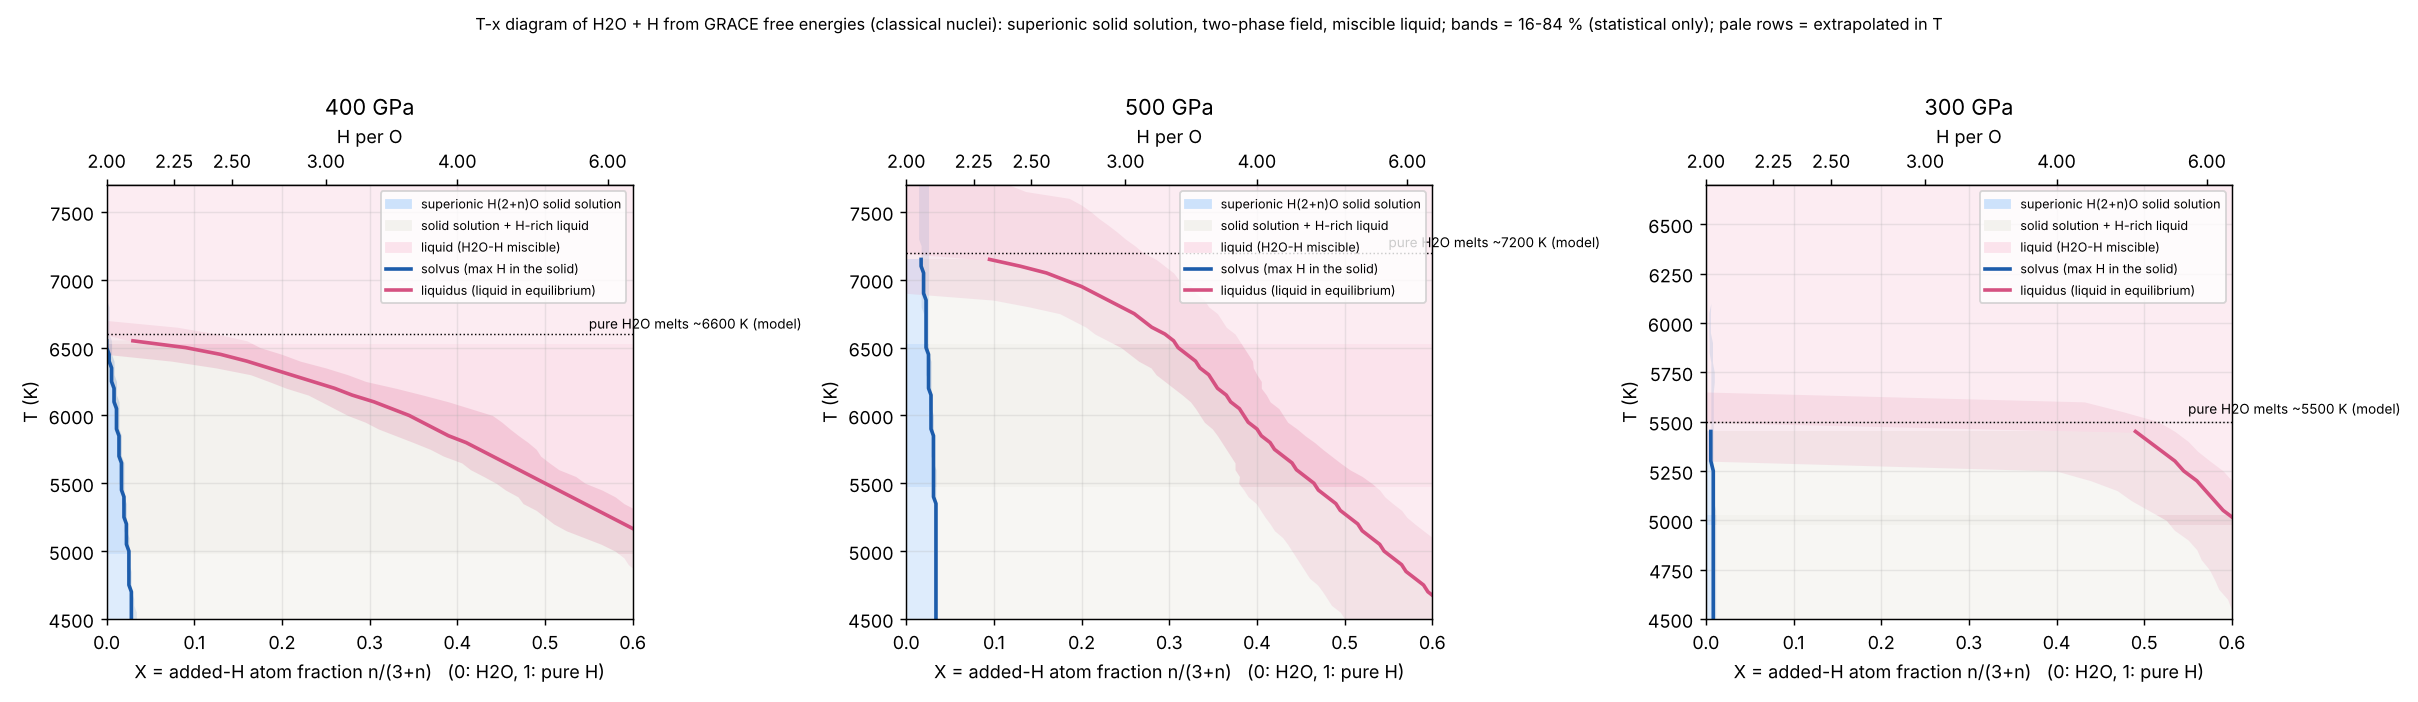
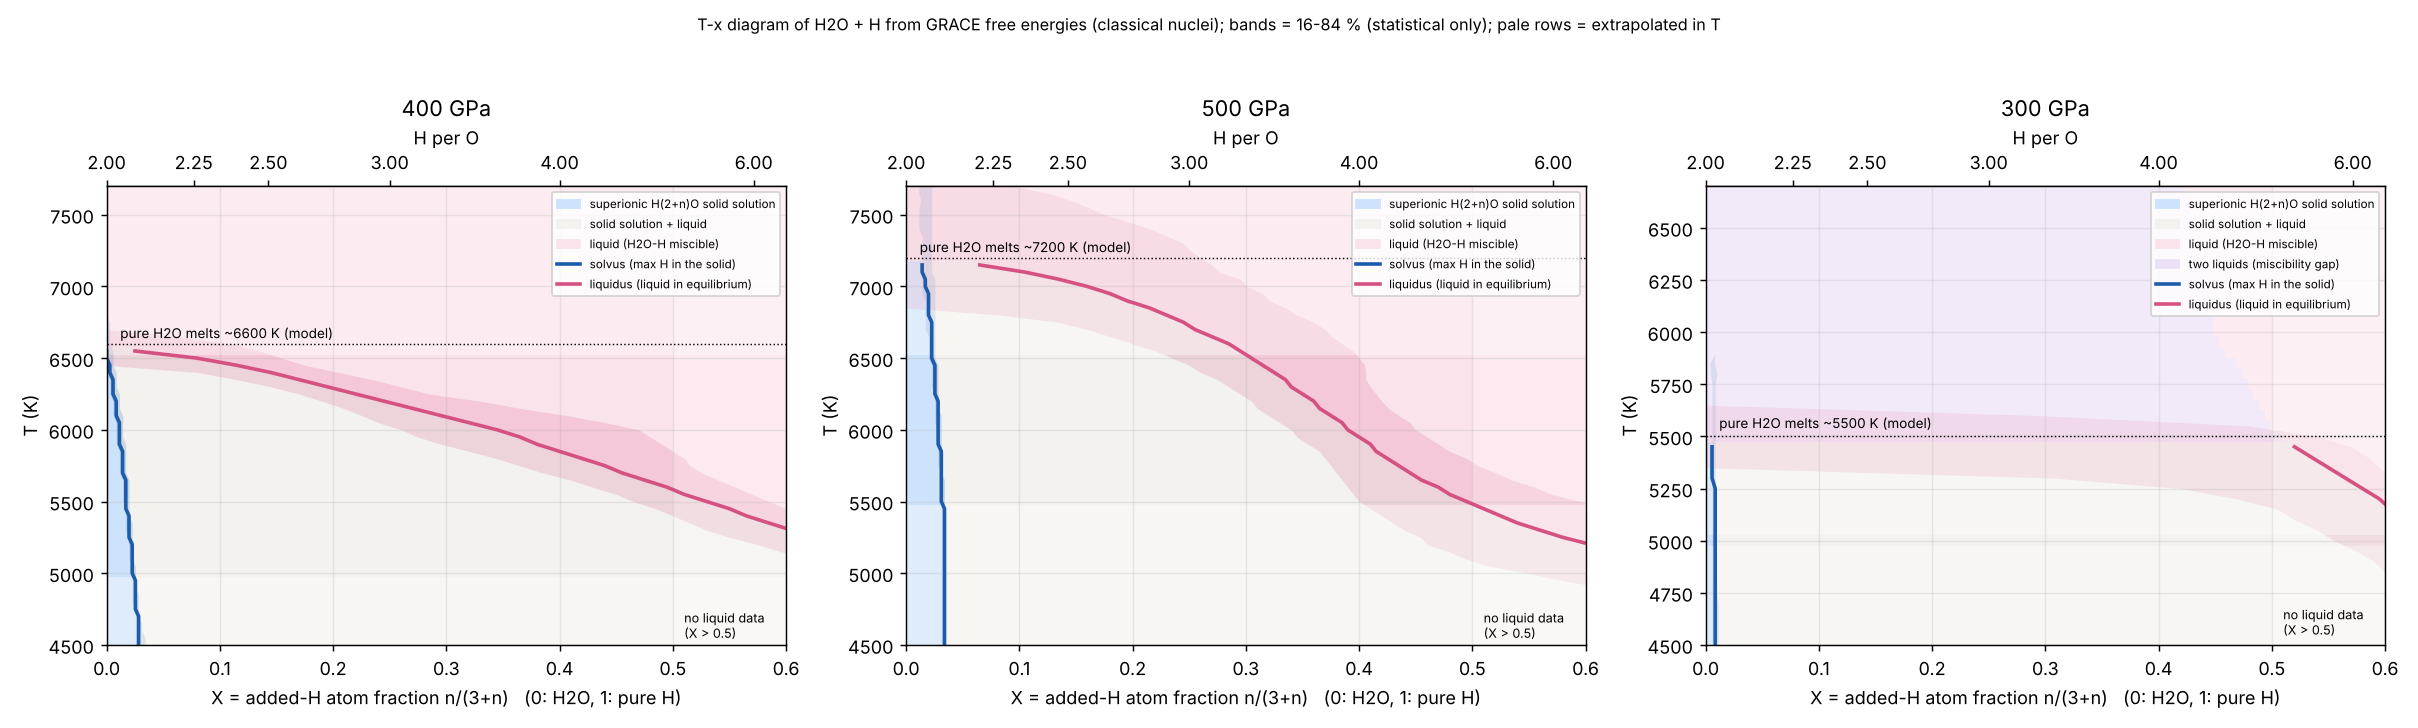
tx_diagram: --compound HPERO:DG[:DS] second solid (eutectic / peritectic fields), --T, --xmax, phase-field map, phase-sequence printout with invariant temperatures; liquid model with ideal atomic O-H mixing (removes spurious two-liquid gaps near pure H)
Claude-Session: https://claude.ai/code/session_01RSfmJNpmRzcKj5F71AN4DM

diff --git a/mlp_pipeline/tdi/tx_diagram.py b/mlp_pipeline/tdi/tx_diagram.py
@@ -3,12 +3,16 @@
       measure averages; docs/data/insertion_regsol_fit.csv), so the next-H chemical potential is mu0 + 2 s n; mu0, s linear in T;
       only n <= NMAX (0.6) is used (beyond: extrapolation of the regular-solution form);
   liquid: g_l = (1 - X) dG_melt(T) + dG_mix(X, T), dG_melt = G_liq - G_fcc of H2O (docs/data/melt_dG_grace.csv, linear in T),
-      dG_mix = X (1 - X) (a + b (1 - 2X)) fitted to the liquid mixing points (docs/data/liquid_mix_grace.csv) at each T, a, b linear in T between the T with data;
+      dG_mix = ideal atomic O-H mixing (g_ideal) + X (1 - X) (a + b (1 - 2X)) fitted to the liquid mixing points (docs/data/liquid_mix_grace.csv) at each T, a, b linear in T between the T with data;
   all relative to H2O solid + fluid H (pure H fluid: 0). At each T the lower convex hull gives: solid solution up to the SOLVUS x_s, two phases (solid + liquid),
   liquid from x_l (LIQUIDUS composition) on; if the hull starts on the liquid, the H2O solid is gone (melted). Monte Carlo over all input errors -> 16-84 % bands.
 Check printed: direct TDI G_liq - G_fcc of H2.25O vs the model's g_l - g_s at n = 0.25.
 Limits: temperatures outside the data are extrapolated (marked); the liquid fit has 3-5 compositions; finite-size and model (GRACE) errors are not in the bands.
-usage: python3 mlp_pipeline/tdi/tx_diagram.py [--P 400 500 300] [-o docs/figures/tx_diagram]   -> <o>.png, <o>.csv
+Second solid (eutectics): --compound HPERO:DG[:DS] adds a line compound H(HPERO)O with g_c(T) = DG - T DS (meV/atom, DS in meV/atom/K) on the same reference
+  (H2O superionic solid + fluid H at the same P, T; NOT Huang's 0 K reference: theirs is vs H2O Pbcm + solid H, include your own entropy / reference shift).
+  With it the hull can show solid + compound and compound + liquid fields; the temperatures where the hull's phase sequence changes (eutectic, peritectic,
+  melting of a phase) are printed. Without a compound there is one solid only (pure H is fluid here) and no eutectic at these T.
+usage: python3 mlp_pipeline/tdi/tx_diagram.py [--P 400 500 300] [--T 3500 8000] [--xmax 1] [--compound 3:-20:0.002] [-o docs/figures/tx_diagram]   -> <o>.png, <o>.csv
 """
 import argparse, csv
 import numpy as np
@@ -30,8 +34,16 @@ def linfit(T, y, e):
     c, *_ = np.linalg.lstsq(A, y * np.sqrt(w), rcond=None); cov = np.linalg.inv(A.T @ A); return c, np.sqrt(np.diag(cov))
 
 
-def rk_fit(X, d, e):
-    X, d, e = map(np.asarray, (X, d, e)); w = 1 / e ** 2
+def g_ideal(X, T):
+    """ideal ATOMIC mixing of O and H per atom (meV) relative to the end members (H2O liquid, x_O = 1/3; pure H): kT [x_O ln x_O + x_H ln x_H] - (1 - X) kT s(1/3), x_O = (1 - X) / 3.
+    The liquid is atomic (dissociated) and added H is the same species as the host H: no log term at the H2O end (the H density stays finite), a log term at the pure-H end
+    (O becomes dilute). It keeps g_l convex next to pure H; the fitted excess part absorbs the rest (a plain Redlich-Kister fit made a spurious two-liquid gap at X > 0.96)"""
+    X = np.clip(np.asarray(X, float), 0, 1 - 1e-12); xo = np.clip((1 - X) / 3, 1e-12, 1); xh = 1 - xo
+    return 0.08617333 * T * ((xo * np.log(xo) + xh * np.log(xh)) - (1 - X) * (np.log(1 / 3) / 3 + 2 / 3 * np.log(2 / 3)))
+
+
+def rk_fit(X, d, e, T=0.0):
+    X, d, e = map(np.asarray, (X, d, e)); w = 1 / e ** 2; d = d - g_ideal(X, T)
     B = np.vstack([X * (1 - X), X * (1 - X) * (1 - 2 * X)]).T
     if len(X) < 3: B = B[:, :1]
     c, *_ = np.linalg.lstsq(B * np.sqrt(w)[:, None], d * np.sqrt(w), rcond=None)
@@ -61,7 +73,7 @@ class Model:
         self.lT, self.lab = [], []
         for T in sorted({r["T_K"] for r in liq}):
             g = [r for r in liq if r["T_K"] == T]; X = [r["n"] / (3 + r["n"]) for r in g]
-            self.lT.append(T); self.lab.append(rk_fit(X, [r["dG_meV_atom"] + z(r["err"]) for r in g], [r["err"] for r in g]))
+            self.lT.append(T); self.lab.append(rk_fit(X, [r["dG_meV_atom"] + z(r["err"]) for r in g], [r["err"] for r in g], T))
         self.lab = np.array(self.lab)
 
     def gs(self, X, T):
@@ -70,64 +82,122 @@ class Model:
 
     def gl(self, X, T):
         a = np.interp(T, self.lT, self.lab[:, 0]); b = np.interp(T, self.lT, self.lab[:, 1]); dm = self.dm[0] * (T - 6000) + self.dm[1]
-        return (1 - X) * dm + X * (1 - X) * (a + b * (1 - 2 * X))
+        return (1 - X) * dm + g_ideal(X, T) + X * (1 - X) * (a + b * (1 - 2 * X))
 
-    def phases(self, T):
-        """(x_s solvus or nan if no solid, x_l liquidus composition, solid stable at X = 0)"""
+    def hull(self, T, comp=None):
+        """lower convex hull at T: list of (X, g, phase) with phase s (solid solution), l (liquid), c (compound)"""
         Xs = np.linspace(0, NMAX / (3 + NMAX), 60); Xl = np.linspace(0, 1, 201)
         pts = [(x, self.gs(x, T), "s") for x in Xs] + [(x, self.gl(x, T), "l") for x in Xl]
-        h = lower_hull([(p[0], p[1], p[2]) for p in pts])
-        if h[0][2] == "l": return np.nan, 0.0, False
-        last_s = max(i for i, p in enumerate(h) if p[2] == "s")
-        xs = h[last_s][0]; xl = h[last_s + 1][0] if last_s + 1 < len(h) else 1.0
-        return xs, xl, True
+        if comp: pts.append((comp[0], comp[1] - T * comp[2], "c"))
+        return lower_hull(pts)
+
+    def phases(self, T, comp=None):
+        """(x_s solvus or nan if no solid, x_l composition of the liquid nearest the H2O side, solid stable at X = 0)"""
+        h = self.hull(T, comp)
+        if h[0][2] != "s": xs = np.nan
+        else: xs = max(p[0] for p in h if p[2] == "s")
+        xl = min((p[0] for p in h if p[2] == "l" and not (p[0] < (xs if np.isfinite(xs) else -1))), default=1.0)
+        return xs, xl, h[0][2] == "s"
 
     def extrap(self, T):
         return any(T < lo - 1 or T > hi + 1 for lo, hi in self.Tr.values())
 
 
+def regions(h, xg, tol=0.012):
+    """phase-field label at each composition of xg from a hull: single phase (s, l) where the hull runs over sampled points of one phase, else 'a+b' of the tie line"""
+    xs = np.array([p[0] for p in h]); out = []
+    for x in xg:
+        k = min(max(np.searchsorted(xs, x, side="right") - 1, 0), len(h) - 2)
+        a, b = h[k], h[k + 1]
+        if a[2] == b[2] and a[2] != "c" and b[0] - a[0] <= tol: out.append(a[2])
+        elif abs(x - a[0]) < 1e-9 and a[2] == "c": out.append("c")
+        else: out.append("+".join(sorted({a[2], b[2]}, key="scl".index)) if a[2] != b[2] else a[2] + "+" + b[2])
+    return out
+
+
+def sequence(h, tol=0.012):
+    """phase sequence along X of a hull, e.g. 's | s+l | l' or 's | s+c | c | c+l | l'"""
+    seq = []
+    for a, b in zip(h[:-1], h[1:]):
+        lab = [a[2]] if a[2] == b[2] and a[2] != "c" and b[0] - a[0] <= tol else ([a[2], "+".join(sorted({a[2], b[2]}, key="scl".index)) if a[2] != b[2] else a[2] + "+" + b[2], b[2]])
+        for l in lab:
+            if not seq or seq[-1] != l: seq.append(l)
+    return " | ".join(seq)
+
+
+REG = {"s": ("#cde2fb", "superionic H(2+n)O solid solution"), "s+l": ("#f3f2ee", "solid solution + liquid"), "l": ("#fbe3ec", "liquid (H2O-H miscible)"),
+       "l+l": ("#ece0f5", "two liquids (miscibility gap)"), "s+c": ("#dfeadf", "solid solution + compound"), "c+l": ("#f6ead8", "compound + liquid"), "c": ("#3f8f4f", "compound")}
+
+
 def main():
     ap = argparse.ArgumentParser(); ap.add_argument("--P", type=float, nargs="+", default=[400, 500, 300]); ap.add_argument("--mc", type=int, default=300)
+    ap.add_argument("--T", type=float, nargs=2, default=None, metavar=("TMIN", "TMAX"), help="temperature range (default: data range - 500 K ... + 700 K)")
+    ap.add_argument("--xmax", type=float, default=0.6, help="largest X shown (1 = pure H; X > 0.5 has no liquid data: extrapolated)")
+    ap.add_argument("--compound", default=None, help="HPERO:DG[:DS]  line compound H(HPERO)O, g = DG - T DS meV/atom (e.g. 3:-20:0.002); same DG, DS at every P")
     ap.add_argument("-o", default="docs/figures/tx_diagram"); a = ap.parse_args()
-    fig, axs = plt.subplots(1, len(a.P), figsize=(6.2 * len(a.P), 5.4), squeeze=False); out = []
-    rng = np.random.default_rng(1)
+    comp = None
+    if a.compound:
+        f = [float(v) for v in a.compound.split(":")] + [0.0]; nc = f[0] - 2; comp = (nc / (3 + nc), f[1], f[2])
+        print(f"compound H{f[0]:g}O at X = {comp[0]:.3f}: g_c(T) = {f[1]:g} - T x {f[2]:g} meV/atom (vs H2O superionic solid + fluid H at P, T)")
+    fig, axs = plt.subplots(1, len(a.P), figsize=(6.2 * len(a.P), 5.6), squeeze=False); out = []
+    rng = np.random.default_rng(1); xg = np.linspace(0, a.xmax, 241)
     for ax, P in zip(axs[0], a.P):
         try:
             m0 = Model(P)
         except ValueError as e:
             ax.set_title(f"{P:.0f} GPa: {e}", fontsize=8); continue
         lo = min(v[0] for v in m0.Tr.values()) - 500; hi = max(m0.Tr["melt"][1], m0.Tr["solid"][1]) + 700
+        if a.T: lo, hi = a.T
         Ts = np.arange(lo, hi + 1, 50.0)
         mcs = [Model(P, rng) for _ in range(a.mc)]
-        res = np.array([[mm.phases(T)[:2] for T in Ts] for mm in mcs])   # (mc, T, 2)
-        best = np.array([m0.phases(T)[:2] for T in Ts])
+        res = np.array([[mm.phases(T, comp)[:2] for T in Ts] for mm in mcs])   # (mc, T, 2)
+        hulls = [m0.hull(T, comp) for T in Ts]; best = np.array([m0.phases(T, comp)[:2] for T in Ts])
         q = lambda k, p: np.nanpercentile(res[:, :, k], p, axis=0)
         psolid = np.mean(np.isfinite(res[:, :, 0]), axis=0)
         xs, xl = best[:, 0], best[:, 1]; ok = np.isfinite(xs)
-        ax.fill_betweenx(Ts[ok], 0, xs[ok], color="#cde2fb", label="superionic H(2+n)O solid solution")
-        ax.fill_betweenx(Ts[ok], xs[ok], xl[ok], color="#f3f2ee", label="solid solution + H-rich liquid")
-        ax.fill_betweenx(Ts, np.where(ok, xl, 0), 1, color="#fbe3ec", label="liquid (H2O-H miscible)")
+        lab = np.array([regions(h, xg) for h in hulls]); keys = [k for k in REG if (lab == k).any()]
+        for k in sorted(set(lab.ravel()) - set(REG)): REG[k] = ("#dddddd", k)
+        keys += [k for k in sorted(set(lab.ravel())) if k not in keys]
+        code = np.vectorize(lambda v: keys.index(v))(lab)
+        from matplotlib.colors import ListedColormap
+        ax.pcolormesh(xg, Ts, code, cmap=ListedColormap([REG[k][0] for k in keys]), vmin=-0.5, vmax=len(keys) - 0.5, shading="nearest")
+        for k in keys:
+            if k != "c": ax.fill_between([], [], color=REG[k][0], label=REG[k][1])
         ax.plot(xs, Ts, color="#1c5cab", lw=2, label="solvus (max H in the solid)"); ax.plot(np.where(ok, xl, np.nan), Ts, color="#d55181", lw=2, label="liquidus (liquid in equilibrium)")
+        if comp:
+            cs = np.array([any(p[2] == "c" for p in h) for h in hulls])
+            ax.plot(np.where(cs, comp[0], np.nan), Ts, color=REG["c"][0], lw=3, label="compound (stable)")
+            xr = np.array([min((p[0] for p in h if p[2] == "l" and p[0] > comp[0]), default=np.nan) if c else np.nan for h, c in zip(hulls, cs)])
+            ax.plot(xr, Ts, color="#d55181", lw=2, ls="--", label="liquidus on the H side of the compound")
         with np.errstate(all="ignore"):
             ax.fill_betweenx(Ts, q(0, 16), q(0, 84), color="#1c5cab", alpha=0.18, lw=0); ax.fill_betweenx(Ts, q(1, 16), q(1, 84), color="#d55181", alpha=0.18, lw=0)
         Tm = Ts[np.argmax(~ok)] if (~ok).any() else np.nan
-        ax.axhline(Tm, color="k", lw=0.8, ls=":"); ax.text(0.55, Tm + 40, f"pure H2O melts ~{Tm:.0f} K (model)", fontsize=7.5)
+        ax.axhline(Tm, color="k", lw=0.8, ls=":"); ax.text(0.02 * a.xmax, Tm + 40, f"pure H2O melts ~{Tm:.0f} K (model)", fontsize=7.5)
         for T in Ts:
             if m0.extrap(T): ax.axhspan(T - 25, T + 25, color="w", alpha=0.35, lw=0)
+        if a.xmax > 0.5: ax.axvspan(0.5, a.xmax, color="w", alpha=0.25, lw=0); ax.text(0.51, Ts[1], "no liquid data\n(X > 0.5)", fontsize=7)
         sec = ax.secondary_xaxis("top", functions=(lambda x: 2 + 3 * x / np.maximum(1 - x, 1e-9), lambda h: (h - 2) / (h + 1)))
-        sec.set_xticks([2, 2.25, 2.5, 3, 4, 6]); sec.set_xlabel("H per O")
-        ax.set(xscale="linear", xlim=(0, 0.6), ylim=(Ts[0], Ts[-1]), xlabel="X = added-H atom fraction n/(3+n)   (0: H2O, 1: pure H)", ylabel="T (K)", title=f"{P:.0f} GPa")
-        ax.legend(fontsize=7, loc="upper right"); ax.grid(alpha=0.25)
+        sec.set_xticks([t for t in [2, 2.25, 2.5, 3, 4, 6, 10, 20] if (t - 2) / (t + 1) <= a.xmax]); sec.set_xlabel("H per O")
+        ax.set(xlim=(0, a.xmax), ylim=(Ts[0], Ts[-1]), xlabel="X = added-H atom fraction n/(3+n)   (0: H2O, 1: pure H)", ylabel="T (K)", title=f"{P:.0f} GPa")
+        ax.legend(fontsize=6.5, loc="upper right"); ax.grid(alpha=0.25)
         print(f"\n{P:.0f} GPa (data T: solid {m0.Tr['solid']}, melting {m0.Tr['melt']}, liquid {m0.Tr['liquid']}; outside = extrapolated, light rows)")
         print(f"   pure H2O melting (model) ~{Tm:.0f} K;  P(solid exists) from MC at that T: {psolid[np.argmin(abs(Ts - Tm))]:.2f}")
-        for T, (s_, l_), lo16, hi84 in zip(Ts, best, q(0, 16), q(0, 84)):
+        seqs = [sequence(h) for h in hulls]
+        print("   phase sequence along X (H2O -> pure H) and where it changes (eutectic / peritectic / melting temperatures):")
+        print(f"      {Ts[0]:6.0f} K: {seqs[0]}")
+        for T0, T1, s0, s1 in zip(Ts[:-1], Ts[1:], seqs[:-1], seqs[1:]):
+            if s0 != s1: print(f"      {(T0 + T1) / 2:6.0f} K (+-25): {s0}  ->  {s1}")
+        for T, h, (s_, l_), lo16, hi84 in zip(Ts, hulls, best, q(0, 16), q(0, 84)):
             if T % 500 == 0:
-                print(f"   {T:6.0f} K: " + (f"solvus H{2 + 3 * s_ / (1 - s_):.2f}O (X {s_:.3f}, 16-84 % {lo16:.3f}-{hi84:.3f}), coexisting liquid X {l_:.2f} (H{2 + 3 * l_ / (1 - l_):.1f}O)" if np.isfinite(s_) else "no solid (all liquid)")
+                pa = next((p for p in h if p[0] > s_ + 1e-9), None) if np.isfinite(s_) else None
+                with_ = "" if pa is None else (f", coexisting with the compound (X {pa[0]:.3f})" if pa[2] == "c" else "")
+                print(f"   {T:6.0f} K: " + (f"solvus H{2 + 3 * s_ / (1 - s_):.2f}O (X {s_:.3f}, 16-84 % {lo16:.3f}-{hi84:.3f}){with_}, liquidus X {l_:.2f} (H{2 + 3 * l_ / (1 - l_):.1f}O)" if np.isfinite(s_) else "no solid solution")
                       + ("   [extrapolated]" if m0.extrap(T) else ""))
-                out.append(dict(P_GPa=P, T_K=T, solvus_X=s_, solvus_X16=lo16, solvus_X84=hi84, liquidus_X=l_, extrapolated=int(m0.extrap(T))))
+                out.append(dict(P_GPa=P, T_K=T, solvus_X=s_, solvus_X16=lo16, solvus_X84=hi84, liquidus_X=l_, extrapolated=int(m0.extrap(T)), sequence=seqs[list(Ts).index(T)]))
         for r in [r for r in rows("docs/data/melt_dG_grace.csv") if r["P_GPa"] == P and r["H_per_O"] == 2.25]:
             X = 0.25 / 3.25; print(f"   check H2.25O at {r['T_K']:.0f} K: direct TDI G_liq - G_fcc {r['dG_meV_atom']:6.1f} +- {r['err']:.1f}, model {m0.gl(X, r['T_K']) - m0.gs(X, r['T_K']):6.1f} meV/atom")
-    fig.suptitle("T-x diagram of H2O + H from GRACE free energies (classical nuclei): superionic solid solution, two-phase field, miscible liquid; bands = 16-84 % (statistical only); pale rows = extrapolated in T", fontsize=9)
+    fig.suptitle("T-x diagram of H2O + H from GRACE free energies (classical nuclei); bands = 16-84 % (statistical only); pale rows = extrapolated in T"
+                 + (f"; compound {a.compound} is an ASSUMED input" if comp else ""), fontsize=9)
     fig.tight_layout(rect=(0, 0, 1, 0.95)); fig.savefig(a.o + ".png", dpi=130)
     if out:
         with open(a.o + ".csv", "w", newline="") as fh:
